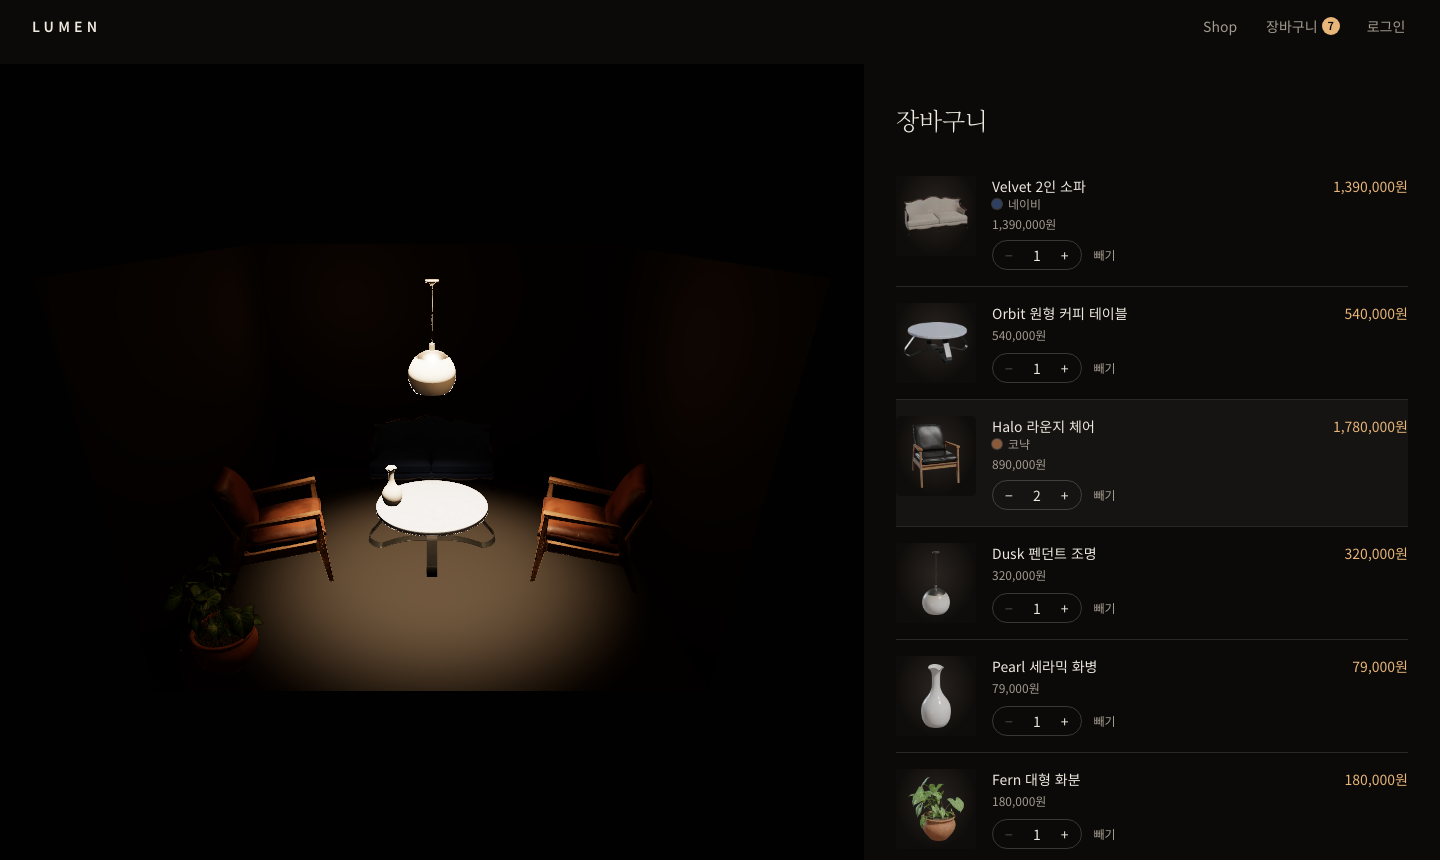
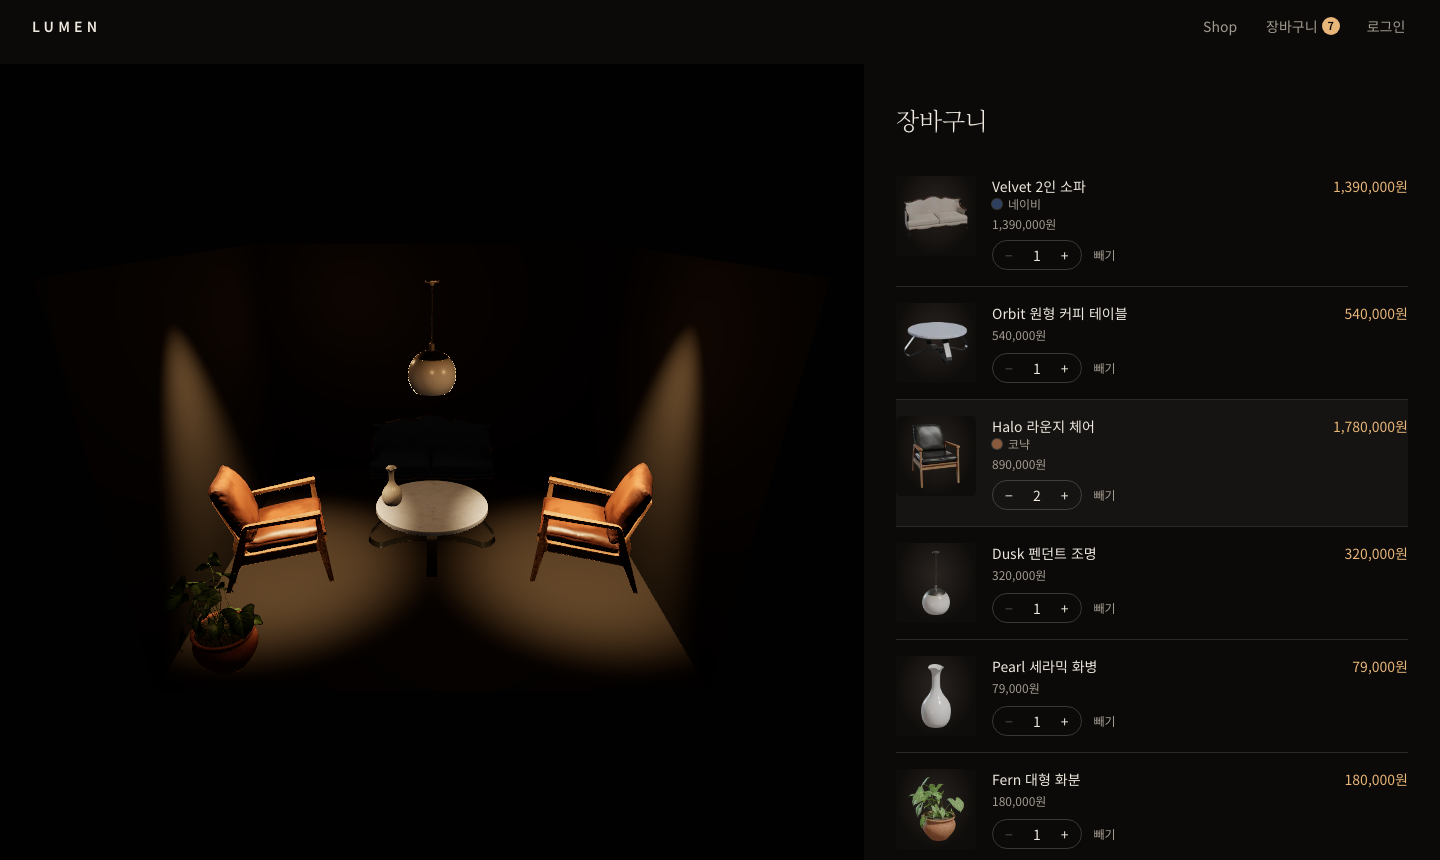
design: 장바구니 방에서 의자를 고르면 가운데 탁자가 하얗게 뜨던 것
같은 가구가 여러 개(의자 두 개)면 넓은 빛 하나로 그 가운데를 겨눴는데, 가운데에는
흰 상판 탁자가 있어서 강조한 의자보다 탁자가 더 밝았다. 바닥 가구는 이미 자기
스포트를 하나씩 갖고 있으니, 고른 가구의 스포트들만 켜고 나머지는 끈다. 조명을
더 만들지 않아 GPU 비용은 그대로다. 넓은 강조 조명은 이제 자기 스포트가 없는
가구(상판 · 선반 위)에만 쓰고, 받는 면이 조명에 가까워 세기를 140 → 70 으로 낮췄다.
README 장바구니 사진도 새로 찍었다.

Changed region(s): [[0.0938, 0.393, 0.5, 0.8163], [0.2812, 0.393, 0.3125, 0.4535]]

diff --git a/src/room/RoomScene.tsx b/src/room/RoomScene.tsx
@@ -46,8 +46,10 @@ export function RoomScene({ layout, focused = null, onPick, lights = "on", touch
   // 탁자 몫의 스포트까지 두 번 받아 하얗게 날아갔다
   const spotFor = useMemo(() => placements.filter((p) => p.level === "floor").slice(0, MAX_SPOTS), [placements]);
   const glowFor = useMemo(() => placements.filter((p) => p.level === "ceiling"), [placements]);
-  // 같은 가구가 여러 개여도 전부 비추도록 (첫 번째 것만 비추던 문제)
-  const beam = useMemo(() => focusBeam(placements, focused), [placements, focused]);
+  // 고른 가구가 자기 스포트를 가진 바닥 가구면 그 스포트들만 켠다. 같은 가구가 여러 개일 때 넓은 빛 하나로
+  // 가운데를 겨누면 그 사이 탁자가 하얗게 떴다. 스포트가 없는 가구(상판 · 선반 위, 7번째부터)만 강조 조명을 쓴다
+  const ownSpot = useMemo(() => !!focused && spotFor.some((p) => `${p.slug}|${p.color ?? ""}` === focused), [spotFor, focused]);
+  const beam = useMemo(() => (ownSpot ? null : focusBeam(placements, focused)), [ownSpot, placements, focused]);
 
   useEffect(() => {
     camera.position.set(0, size * 0.62 + 0.6, size * 0.95 + 1.2);
@@ -69,11 +71,13 @@ export function RoomScene({ layout, focused = null, onPick, lights = "on", touch
       if (!s) return;
       const p = spotFor[i];
       // 차례로 켜지는 연출도 끝 밝기는 평소(0.6)와 같다 — 1 이면 흰 상판이 하얗게 날아갔다
-      const on = lights === "off" ? 0 : seq ? (t > (i + 1) * SEQ_STEP ? 0.6 : 0) : focused ? 0 : 0.6;
-      s.intensity = k(s.intensity, (focused === `${p.slug}|${p.color ?? ""}` ? 0 : 60) * on);
+      const mine = focused === `${p.slug}|${p.color ?? ""}`;
+      const on = lights === "off" ? 0 : seq ? (t > (i + 1) * SEQ_STEP ? 0.6 : 0) : focused ? (mine && ownSpot ? 2 : 0) : 0.6;
+      s.intensity = k(s.intensity, 60 * on);
     });
     if (focusSpot.current) {
-      focusSpot.current.intensity = k(focusSpot.current.intensity, beam ? 140 : 0);
+      // 이 조명은 이제 상판 · 선반 위 가구용이라 받는 면이 조명에 0.5m 가까이 붙어 있다 — 바닥 기준(140)이면 흰 상판이 날아갔다
+      focusSpot.current.intensity = k(focusSpot.current.intensity, beam ? 70 : 0);
       if (beam) {
         focusSpot.current.position.set(...beam.position);
         focusSpot.current.angle = beam.angle;
